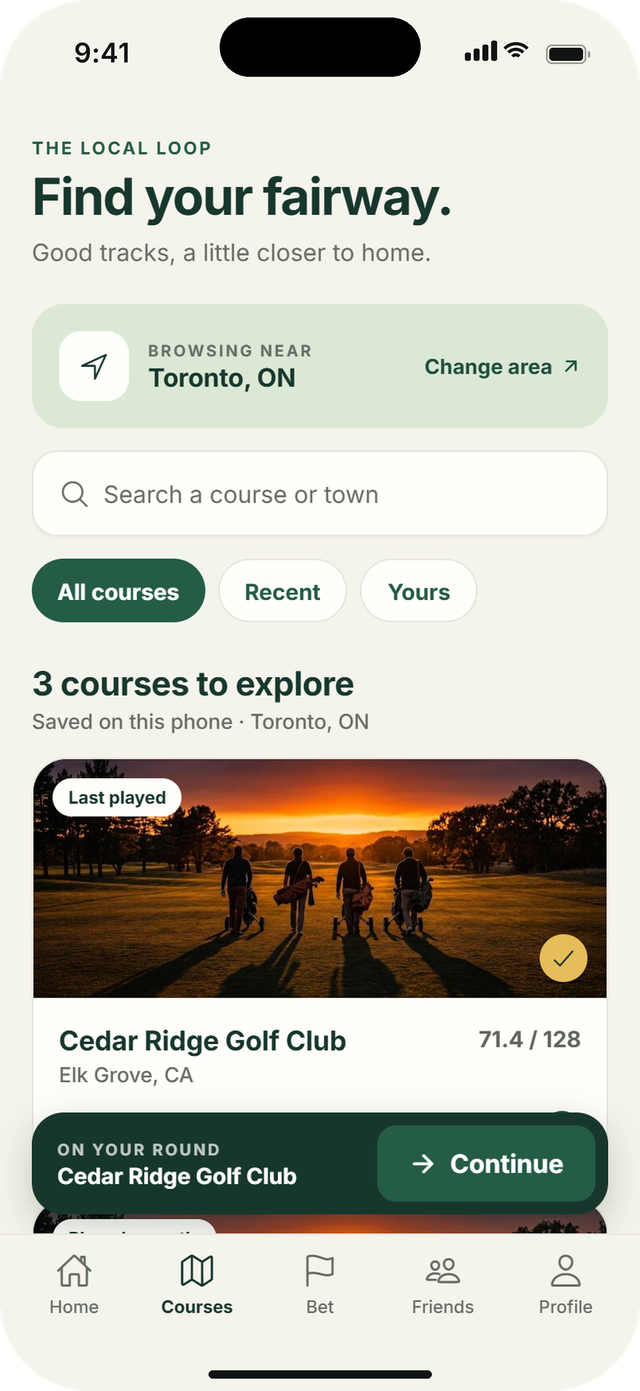
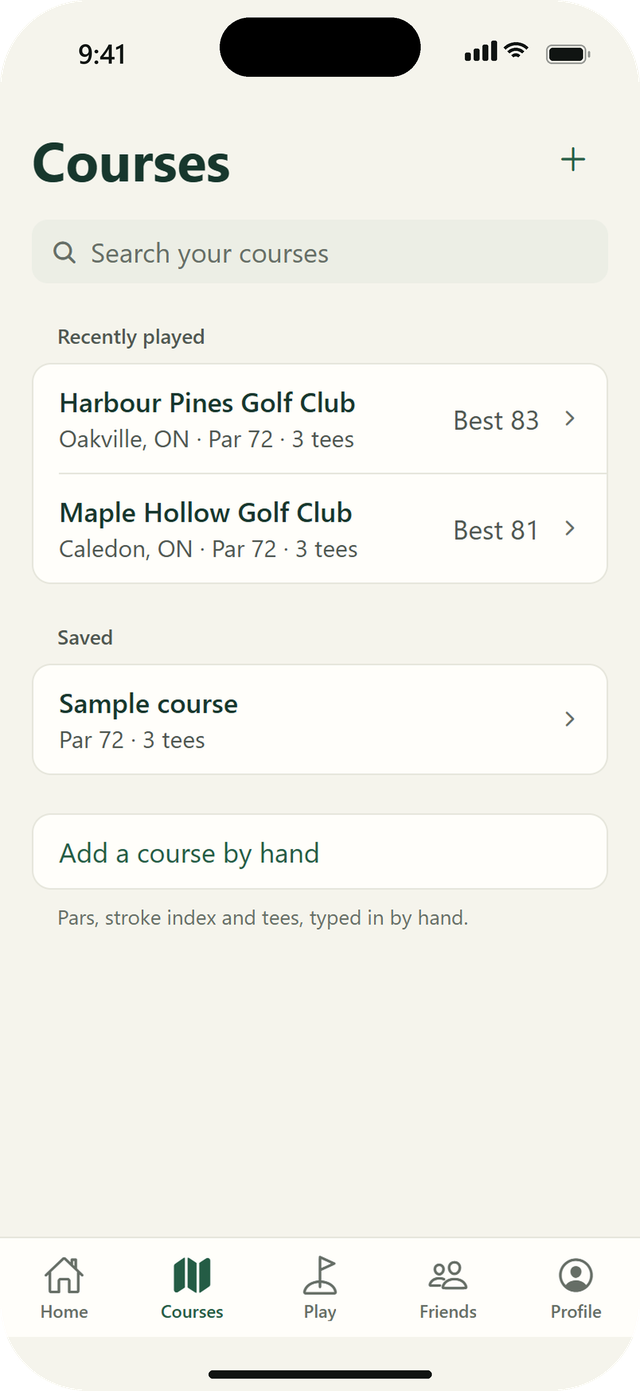
App screenshots from the rebuilt app; nav button contrast
- All nine phone screenshots retaken from the v1 app's demo data (native titles, grouped lists, no photos, the Play
  tab). 02-bet.png is now 02-new-round.png.
- Alt text and captions describe what is on screen now; the bag, home area and photo cards are gone.
- The nav's "Get the app" button had grey text on green (.nav a outranked .btn-primary); it now uses the on-accent
  colour. Stylesheet version bumped to v5.

diff --git a/index.html b/index.html
@@ -17,7 +17,7 @@
 <link rel="preconnect" href="https://fonts.googleapis.com">
 <link rel="preconnect" href="https://fonts.gstatic.com" crossorigin>
 <link href="https://fonts.googleapis.com/css2?family=Inter:wght@400;500;600;700&family=JetBrains+Mono:wght@500&family=Playfair+Display:ital,wght@0,700;0,900;1,400;1,900&display=swap" rel="stylesheet">
-<link rel="stylesheet" href="assets/css/site.css?v=4">
+<link rel="stylesheet" href="assets/css/site.css?v=5">
 <script>document.documentElement.classList.remove('no-js');if(!matchMedia('(prefers-reduced-motion: reduce)').matches)document.documentElement.classList.add('js-motion');</script>
 </head>
 <body>
@@ -82,7 +82,7 @@
       </div>
       <div class="hero-device">
         <div class="phone" id="hero-phone">
-          <img src="assets/img/01-home.png" width="640" height="1391" alt="Birdies &amp; Bets home screen: a greeting, the next round at Cedar Ridge Golf Club over a golf photo, your handicap and your golf circle." fetchpriority="high">
+          <img src="assets/img/01-home.png" width="640" height="1391" alt="Birdies &amp; Bets home screen: the round in progress at Harbour Pines Golf Club on hole 17 with Resume round, this year’s rounds, average, best and points, and recent rounds." fetchpriority="high">
         </div>
       </div>
     </div>
@@ -121,7 +121,7 @@
         <div class="story-side">
           <ol class="story-steps">
             <li class="story-step">
-              <div class="phone sm"><img src="assets/img/03-hole.png" width="640" height="1391" alt="The scorecard on hole 7: each player's score with minus and plus buttons, and their handicap strokes." loading="lazy" decoding="async"></div>
+              <div class="phone sm"><img src="assets/img/03-hole.png" width="640" height="1391" alt="The round in progress on hole 17: each player’s score with minus and plus buttons, the standings line, and the Wolf prompt naming the wolf." loading="lazy" decoding="async"></div>
               <div class="story-text">
                 <span class="story-n">01</span>
                 <h3>Score the hole</h3>
@@ -129,7 +129,7 @@
               </div>
             </li>
             <li class="story-step">
-              <div class="phone sm"><img src="assets/img/04-standings.png" width="640" height="1391" alt="Standings screen with skins won and who is in the hot seat." loading="lazy" decoding="async"></div>
+              <div class="phone sm"><img src="assets/img/04-standings.png" width="640" height="1391" alt="Standings: Maya Chen leads with 5 skins, the skins won hole by hole, and the Nassau match between Alex and Sam." loading="lazy" decoding="async"></div>
               <div class="story-text">
                 <span class="story-n">02</span>
                 <h3>The games keep up</h3>
@@ -137,7 +137,7 @@
               </div>
             </li>
             <li class="story-step">
-              <div class="phone sm"><img src="assets/img/05-card.png" width="640" height="1391" alt="Scorecard with birdie circles, bogey squares and the front nine totals." loading="lazy" decoding="async"></div>
+              <div class="phone sm"><img src="assets/img/05-card.png" width="640" height="1391" alt="A finished round’s scorecard in net: birdie circles, bogey squares, handicap stroke dots, and the Out, In and total columns." loading="lazy" decoding="async"></div>
               <div class="story-text">
                 <span class="story-n">03</span>
                 <h3>The card keeps itself</h3>
@@ -164,36 +164,36 @@
       <div class="shots" id="shots-carousel">
         <div class="shots-track" tabindex="0" aria-roledescription="carousel" aria-label="App screens">
           <figure class="shot reveal">
-            <div class="phone sm"><img src="assets/img/02-bet.png" width="640" height="1391" alt="Round builder with the course, a Saturday 8:30 tee time and Start this round." loading="lazy"></div>
+            <div class="phone sm"><img src="assets/img/02-new-round.png" width="640" height="1391" alt="New round: Maple Hollow Golf Club, White tees, a tee time tomorrow at 8:10, and four players with their handicaps." loading="lazy"></div>
             <figcaption><strong>Build the round</strong>Pick the course and tee time, bring your crew, add a side game.</figcaption>
           </figure>
           <figure class="shot reveal">
-            <div class="phone sm"><img src="assets/img/03-hole.png" width="640" height="1391" alt="The scorecard on hole 7: each player's score with minus and plus buttons, and their handicap strokes." loading="lazy"></div>
+            <div class="phone sm"><img src="assets/img/03-hole.png" width="640" height="1391" alt="The round in progress on hole 17: each player’s score with minus and plus buttons, the standings line, and the Wolf prompt naming the wolf." loading="lazy"></div>
             <figcaption><strong>Score the hole</strong>Minus and plus, not keyboards. Strokes shown on the holes that get them.</figcaption>
           </figure>
           <figure class="shot reveal">
-            <div class="phone sm"><img src="assets/img/04-standings.png" width="640" height="1391" alt="Standings screen with skins won and who is in the hot seat." loading="lazy"></div>
+            <div class="phone sm"><img src="assets/img/04-standings.png" width="640" height="1391" alt="Standings: Maya Chen leads with 5 skins, the skins won hole by hole, and the Nassau match between Alex and Sam." loading="lazy"></div>
             <figcaption><strong>Live standings</strong>Skins carrying, who's in the hot seat, updated every hole.</figcaption>
           </figure>
           <figure class="shot reveal">
-            <div class="phone sm"><img src="assets/img/05-card.png" width="640" height="1391" alt="Scorecard with birdie circles, bogey squares and the front nine totals." loading="lazy"></div>
+            <div class="phone sm"><img src="assets/img/05-card.png" width="640" height="1391" alt="A finished round’s scorecard in net: birdie circles, bogey squares, handicap stroke dots, and the Out, In and total columns." loading="lazy"></div>
             <figcaption><strong>The full card</strong>Birdies circled, bogeys boxed, gross or net with one tap.</figcaption>
           </figure>
           <figure class="shot reveal">
-            <div class="phone sm"><img src="assets/img/06-summary.png" width="640" height="1391" alt="Round summary with low gross, every player’s gross, handicap and net, and the game results." loading="lazy"></div>
+            <div class="phone sm"><img src="assets/img/06-summary.png" width="640" height="1391" alt="Results: Maya Chen won with a net 66, then each player’s gross, net and points, and the game results." loading="lazy"></div>
             <figcaption><strong>The 19th</strong>Game results and the tally. Share the card to the group chat.</figcaption>
           </figure>
           <figure class="shot reveal">
-            <div class="phone sm"><img src="assets/img/07-courses.png" width="640" height="1391" alt="Courses screen with search, filters and a photo card for each course." loading="lazy"></div>
-            <figcaption><strong>Find your fairway</strong>Your courses in one place, or search and import a new one.</figcaption>
+            <div class="phone sm"><img src="assets/img/07-courses.png" width="640" height="1391" alt="Courses: the courses you have played and saved, with par, tees and your best score, and Add a course by hand." loading="lazy"></div>
+            <figcaption><strong>Your courses</strong>Par, tees and your best at each one. Search for a new one, or add it by hand.</figcaption>
           </figure>
           <figure class="shot reveal">
-            <div class="phone sm"><img src="assets/img/08-friends.png" width="640" height="1391" alt="Friends screen with upcoming and past rounds and a Rematch button." loading="lazy"></div>
-            <figcaption><strong>Your golf circle</strong>The people you play with, their index and a one-tap rematch.</figcaption>
+            <div class="phone sm"><img src="assets/img/08-friends.png" width="640" height="1391" alt="Friends: the Saturday group, and each friend’s handicap index, rounds together and points against you." loading="lazy"></div>
+            <figcaption><strong>Your golf circle</strong>The people you play with, your record against each, and your group, ready in one tap.</figcaption>
           </figure>
           <figure class="shot reveal">
-            <div class="phone sm"><img src="assets/img/09-profile.png" width="640" height="1391" alt="Profile screen with the golfer card, handicap index and clubs in the bag." loading="lazy"></div>
-            <figcaption><strong>Make it yours</strong>Your index, home course area and the clubs in your bag.</figcaption>
+            <div class="phone sm"><img src="assets/img/09-profile.png" width="640" height="1391" alt="Profile: your name, handicap index and home course, with Settings, How it works, Contact support and the privacy policy." loading="lazy"></div>
+            <figcaption><strong>Make it yours</strong>Your handicap index and its history, and your home course.</figcaption>
           </figure>
         </div>
         <div class="shots-ctl">

diff --git a/card.html b/card.html
@@ -13,7 +13,7 @@
 <link rel="preconnect" href="https://fonts.googleapis.com">
 <link rel="preconnect" href="https://fonts.gstatic.com" crossorigin>
 <link href="https://fonts.googleapis.com/css2?family=Inter:wght@400;500;600;700&family=JetBrains+Mono:wght@500&family=Playfair+Display:ital,wght@0,700;0,900;1,400;1,900&display=swap" rel="stylesheet">
-<link rel="stylesheet" href="assets/css/site.css?v=4">
+<link rel="stylesheet" href="assets/css/site.css?v=5">
 <style>
   .card-head { display: flex; flex-wrap: wrap; align-items: end; justify-content: space-between; gap: 16px; margin-bottom: 28px; }
   .card-head h1 { margin-bottom: 6px; }

diff --git a/privacy.html b/privacy.html
@@ -12,7 +12,7 @@
 <link rel="preconnect" href="https://fonts.googleapis.com">
 <link rel="preconnect" href="https://fonts.gstatic.com" crossorigin>
 <link href="https://fonts.googleapis.com/css2?family=Inter:wght@400;500;600;700&family=JetBrains+Mono:wght@500&family=Playfair+Display:ital,wght@0,700;0,900;1,400;1,900&display=swap" rel="stylesheet">
-<link rel="stylesheet" href="assets/css/site.css?v=4">
+<link rel="stylesheet" href="assets/css/site.css?v=5">
 </head>
 <body>
 <a class="skip" href="#main">Skip to content</a>

diff --git a/support.html b/support.html
@@ -12,7 +12,7 @@
 <link rel="preconnect" href="https://fonts.googleapis.com">
 <link rel="preconnect" href="https://fonts.gstatic.com" crossorigin>
 <link href="https://fonts.googleapis.com/css2?family=Inter:wght@400;500;600;700&family=JetBrains+Mono:wght@500&family=Playfair+Display:ital,wght@0,700;0,900;1,400;1,900&display=swap" rel="stylesheet">
-<link rel="stylesheet" href="assets/css/site.css?v=4">
+<link rel="stylesheet" href="assets/css/site.css?v=5">
 </head>
 <body>
 <a class="skip" href="#main">Skip to content</a>

diff --git a/assets/css/site.css b/assets/css/site.css
@@ -150,6 +150,7 @@ button { font: inherit; color: inherit; }
 .nav a:hover { color: var(--text); }
 .nav a[aria-current="page"] { color: var(--text); }
 .nav .btn { margin-left: 8px; min-height: 44px; }
+.nav a.btn-primary, .nav a.btn-primary:hover { color: var(--on-accent); }
 @media (max-width: 640px) { .nav a:not(.btn) { display: none; } }
 
 /* ---------- hero ---------- */
